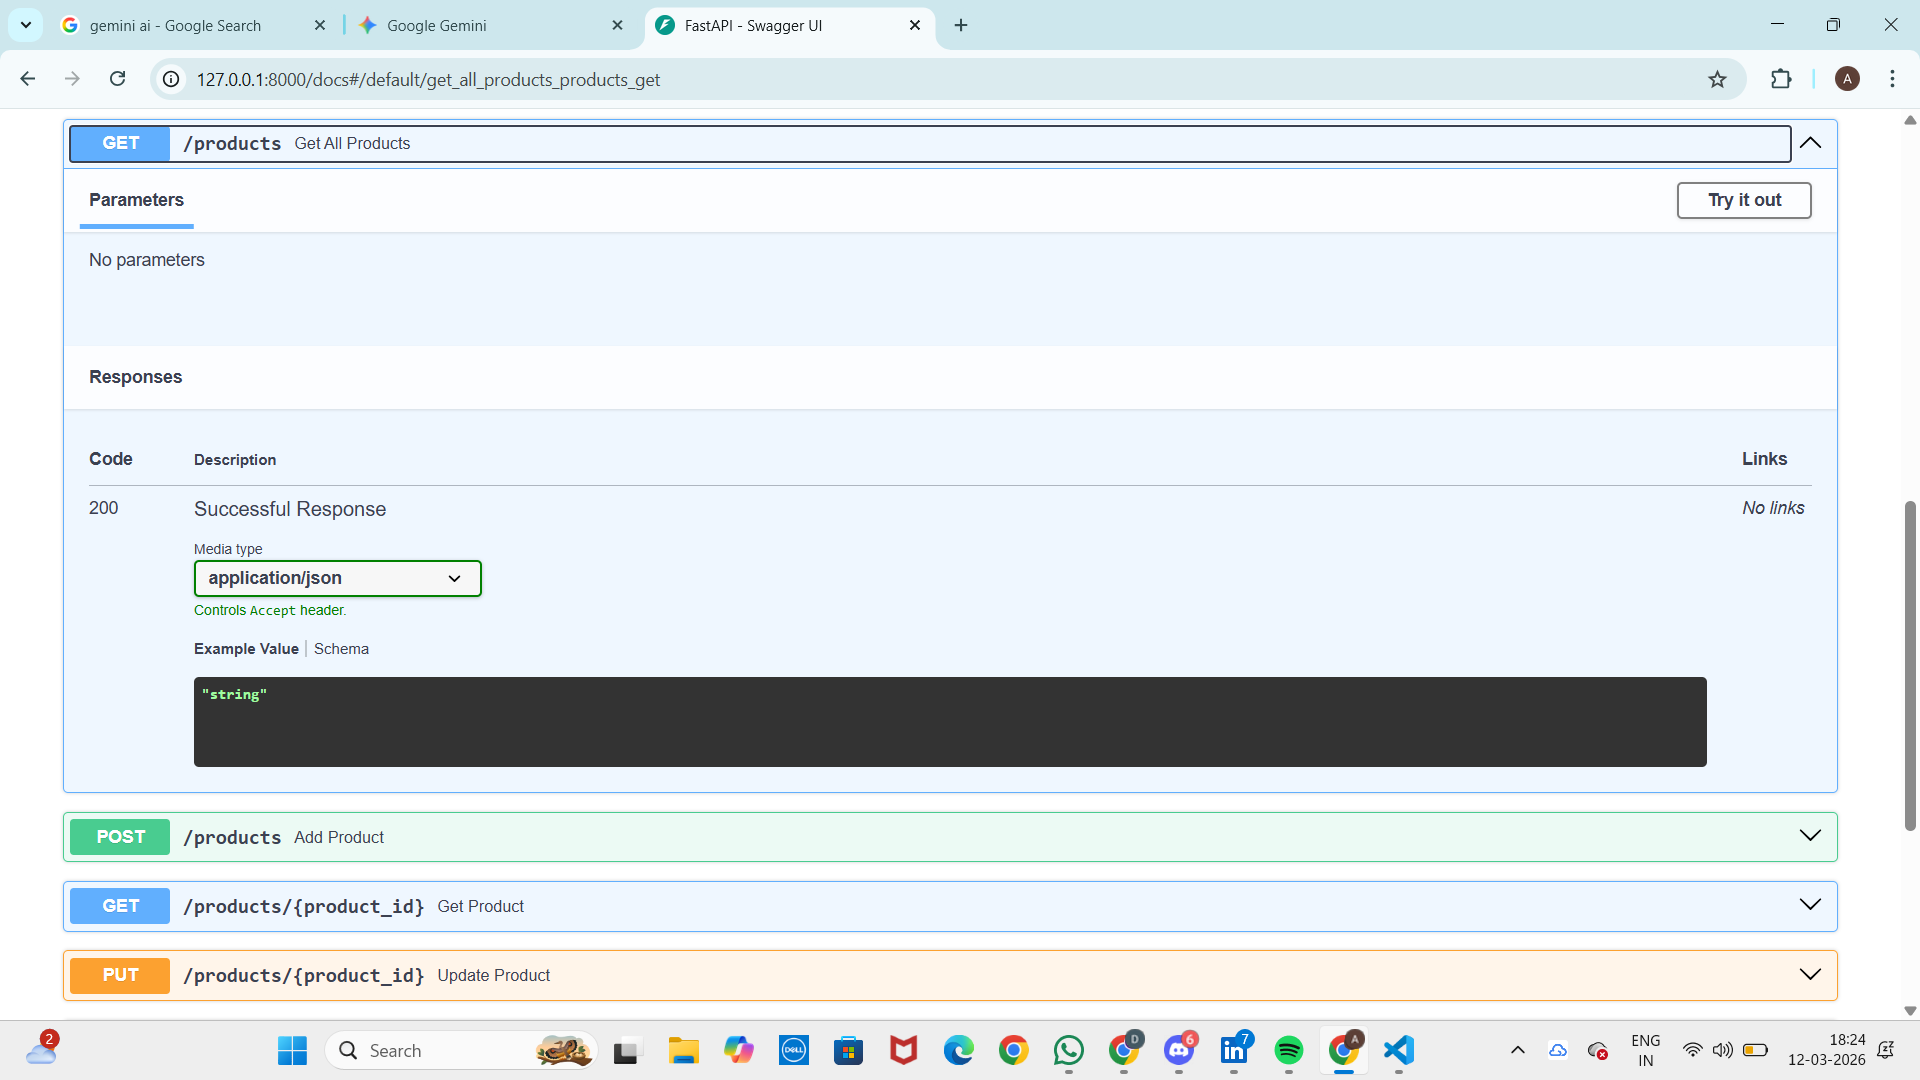
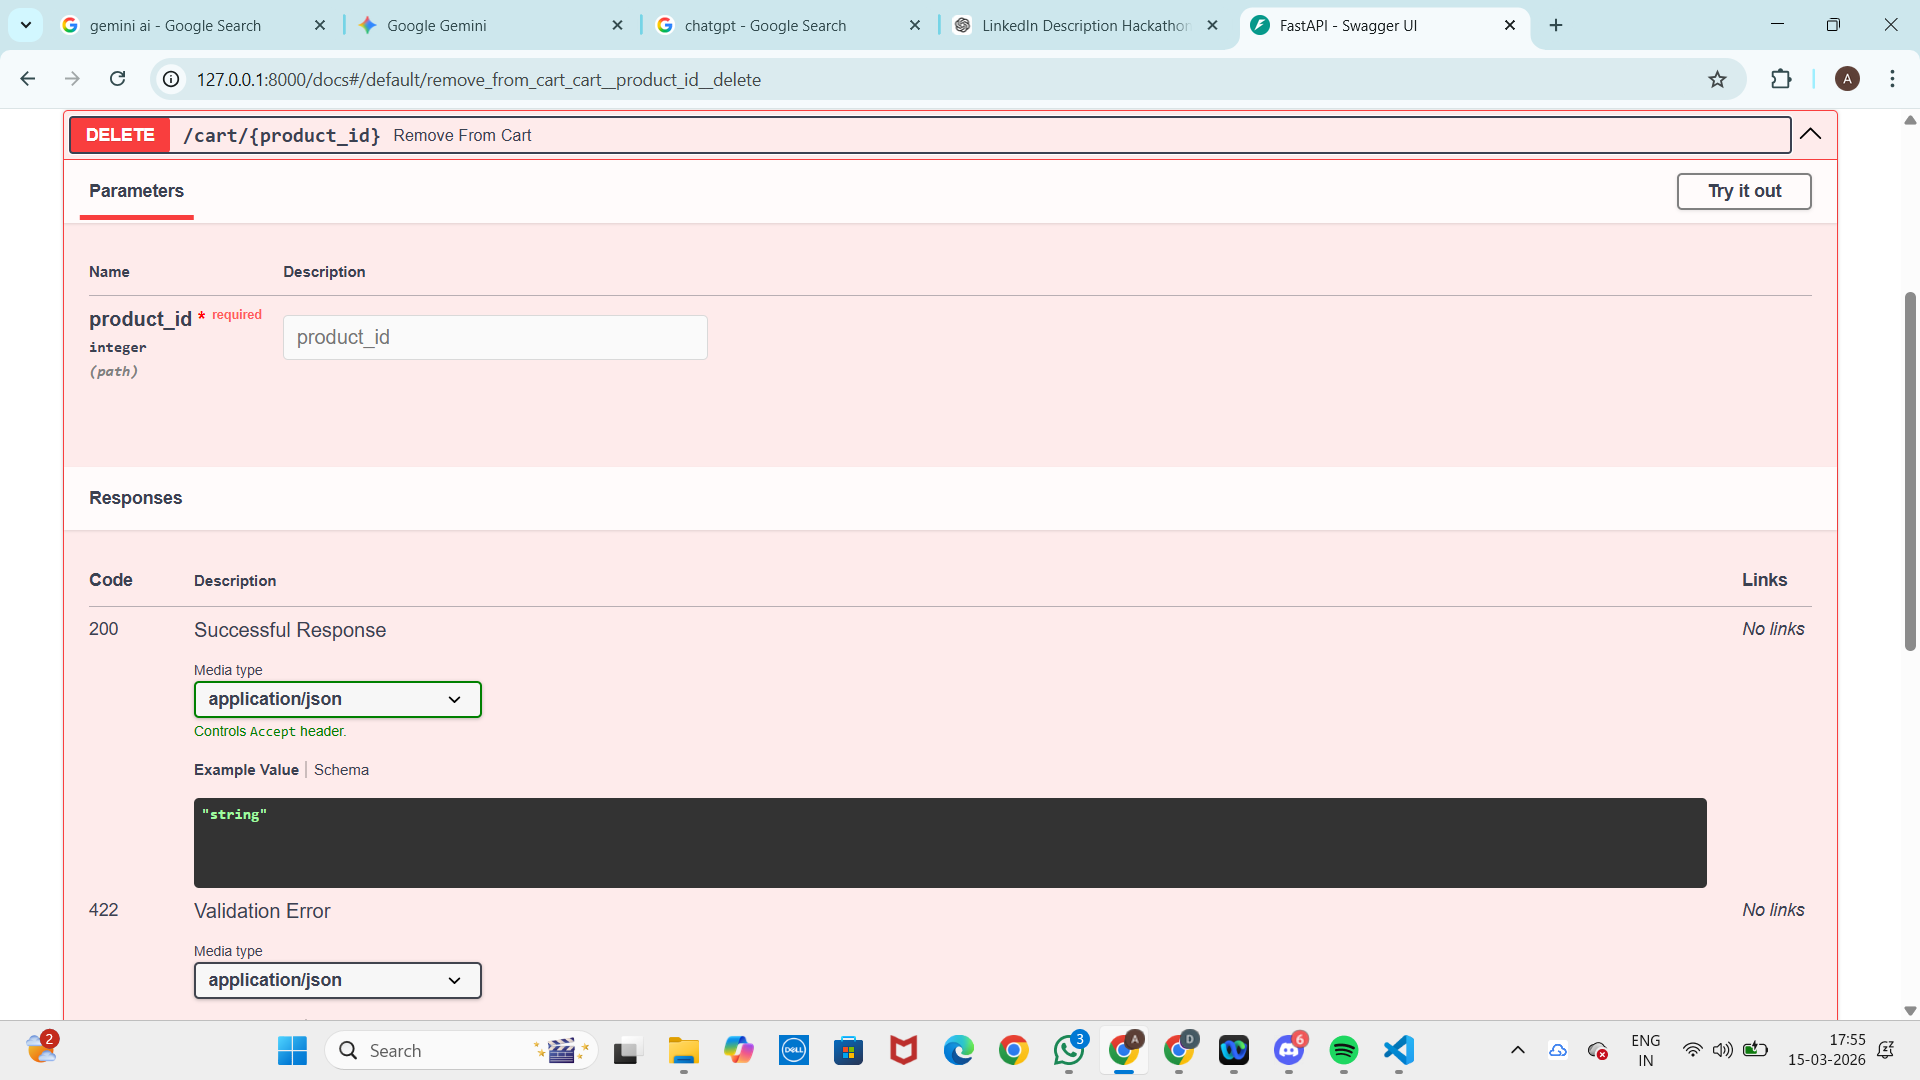
Add files via upload

diff --git a/Task 4/main.py b/Task 4/main.py
@@ -1,0 +1,94 @@
+from fastapi import FastAPI, HTTPException
+from pydantic import BaseModel
+from typing import List, Optional
+
+app = FastAPI()
+
+# --- Data Models ---
+products = {
+    1: {"name": "Wireless Mouse", "price": 499, "in_stock": True},
+    2: {"name": "Notebook", "price": 99, "in_stock": True},
+    3: {"name": "USB Hub", "price": 599, "in_stock": False}, # Out of stock for Q3
+}
+
+cart = []
+orders = []
+
+class CheckoutRequest(BaseModel):
+    customer_name: str
+    delivery_address: str
+
+# --- Endpoints ---
+
+@app.get("/cart")
+def get_cart():
+    if not cart:
+        return {"message": "Cart is empty", "items": [], "item_count": 0, "grand_total": 0}
+    
+    grand_total = sum(item["subtotal"] for item in cart)
+    return {
+        "items": cart,
+        "item_count": len(cart),
+        "grand_total": grand_total
+    }
+
+@app.post("/cart/add")
+def add_to_cart(product_id: int, quantity: int = 1):
+    if product_id not in products:
+        raise HTTPException(status_code=404, detail="Product not found")
+    
+    product = products[product_id]
+    
+    if not product["in_stock"]:
+        raise HTTPException(status_code=400, detail=f"{product['name']} is out of stock")
+
+    # Check if item already in cart (Q4 Logic)
+    for item in cart:
+        if item["product_id"] == product_id:
+            item["quantity"] += quantity
+            item["subtotal"] = item["quantity"] * product["price"]
+            return {"message": "Cart updated", "cart_item": item}
+
+    # Add new item
+    new_item = {
+        "product_id": product_id,
+        "product_name": product["name"],
+        "quantity": quantity,
+        "unit_price": product["price"],
+        "subtotal": quantity * product["price"]
+    }
+    cart.append(new_item)
+    return {"message": "Added to cart", "cart_item": new_item}
+
+@app.delete("/cart/{product_id}")
+def remove_from_cart(product_id: int):
+    global cart
+    initial_len = len(cart)
+    cart = [item for item in cart if item["product_id"] != product_id]
+    if len(cart) == initial_len:
+        raise HTTPException(status_code=404, detail="Item not in cart")
+    return {"message": "Item removed from cart"}
+
+@app.post("/cart/checkout")
+def checkout(details: CheckoutRequest):
+    global cart
+    if not cart:
+        raise HTTPException(status_code=400, detail="Cart is empty — add items first")
+
+    # Process each cart item into the orders list
+    for item in cart:
+        new_order = {
+            "order_id": len(orders) + 1,
+            "customer_name": details.customer_name,
+            "product": item["product_name"],
+            "quantity": item["quantity"],
+            "total_price": item["subtotal"]
+        }
+        orders.append(new_order)
+    
+    cart = [] # Clear cart after checkout
+    return {"message": "Order placed successfully", "orders_placed": len(cart)}
+
+@app.get("/orders")
+def get_orders():
+    return {"orders": orders, "total_orders": len(orders)}
